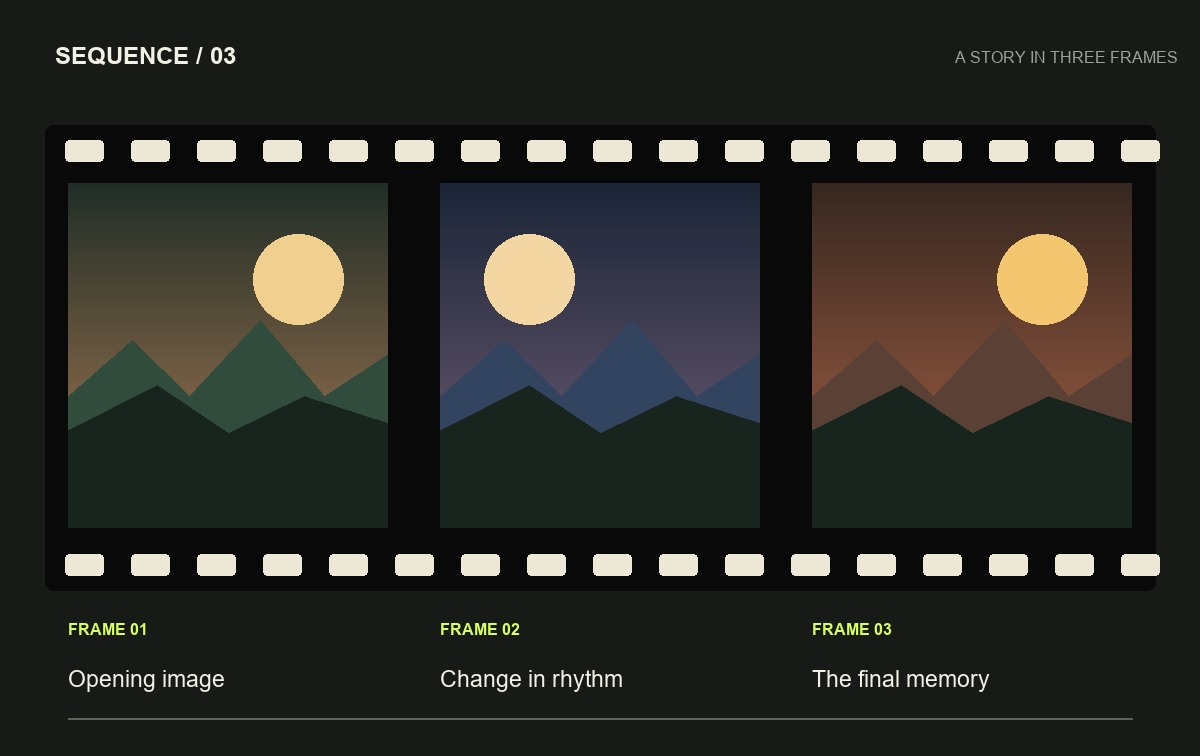
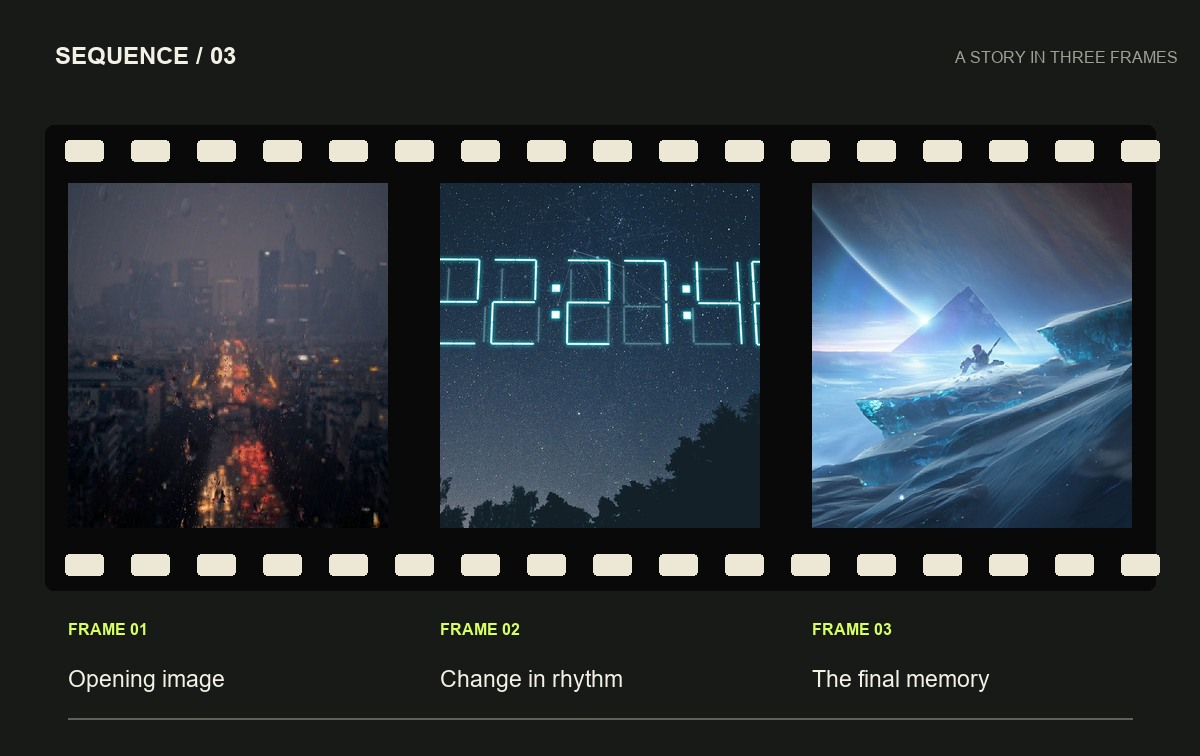
feat: use provided artwork in template previews

Changed region(s): [[0.0308, 0.2434, 0.6475, 0.6997], [0.6783, 0.2434, 0.9558, 0.6997]]

diff --git a/scripts/generate_preview_assets.py b/scripts/generate_preview_assets.py
@@ -21,29 +21,6 @@ def save(image: Image.Image, name: str) -> None:
     image.save(DEMO / name, "JPEG", quality=91, optimize=True, progressive=True)
 
 
-def generated_scene(size: tuple[int, int], variant: int) -> Image.Image:
-    palettes = [
-        ((33, 46, 40), (174, 126, 86), "#f1cf8f", "#314c3d"),
-        ((28, 37, 55), (116, 97, 122), "#f4d6a3", "#324460"),
-        ((54, 39, 32), (173, 101, 73), "#f3c66f", "#5b4035"),
-    ]
-    top, bottom, sun, land = palettes[variant % len(palettes)]
-    image = Image.new("RGB", size)
-    draw = ImageDraw.Draw(image)
-    for y in range(size[1]):
-        ratio = y / max(size[1] - 1, 1)
-        color = tuple(int(top[i] + (bottom[i] - top[i]) * ratio) for i in range(3))
-        draw.line((0, y, size[0], y), fill=color)
-    radius = min(size) // 7
-    cx = int(size[0] * (0.72 if variant % 2 == 0 else 0.28))
-    cy = int(size[1] * 0.28)
-    draw.ellipse((cx - radius, cy - radius, cx + radius, cy + radius), fill=sun)
-    horizon = int(size[1] * 0.62)
-    draw.polygon([(0, horizon), (size[0] * .2, horizon - size[1] * .16), (size[0] * .38, horizon), (size[0] * .6, horizon - size[1] * .22), (size[0] * .8, horizon), (size[0], horizon - size[1] * .12), (size[0], size[1]), (0, size[1])], fill=land)
-    draw.polygon([(0, horizon + size[1] * .1), (size[0] * .28, horizon - size[1] * .03), (size[0] * .5, horizon + size[1] * .11), (size[0] * .74, horizon), (size[0], horizon + size[1] * .08), (size[0], size[1]), (0, size[1])], fill="#18251f")
-    return image
-
-
 def avatar() -> None:
     canvas = Image.new("RGB", SIZE, "#111410")
     draw = ImageDraw.Draw(canvas)
@@ -92,7 +69,7 @@ def postcard() -> None:
 def magazine_cover() -> None:
     canvas = Image.new("RGB", SIZE, "#111410")
     cover = Image.new("RGB", (470, 664), "#f1efe7")
-    cover.paste(generated_scene((436, 530), 0), (17, 88))
+    cover.paste(fit("showcase-sources/editorial-portrait.jpg", (436, 530)), (17, 88))
     draw_cover = ImageDraw.Draw(cover)
     draw_cover.text((18, 8), "FORM", fill="#121512", font=font(64, True))
     draw_cover.text((366, 17), "ISSUE 07", fill="#121512", font=font(14, True))
@@ -100,7 +77,7 @@ def magazine_cover() -> None:
     draw_cover.text((34, 484), "THE IMAGE EDIT", fill="#151713", font=font(14, True))
     draw_cover.text((32, 520), "MAKE THE", fill="#151713", font=font(32, True))
     draw_cover.text((32, 558), "FRAME YOURS", fill="#151713", font=font(28, True))
-    canvas.paste(cover, (72, 45))
+    canvas.paste(cover, (155, 45))
     draw = ImageDraw.Draw(canvas)
     draw.text((655, 230), "EDITORIAL SYSTEM", fill="#d8ff62", font=font(21, True))
     draw.text((652, 278), "ONE IMAGE.", fill="#f4f4ee", font=font(52, True))
@@ -120,9 +97,9 @@ def scrapbook() -> None:
         draw.line((0, y, 1200, y), fill="#d9d0c1", width=1)
     draw.text((55, 38), "weekend notes", fill="#342f29", font=font(38, True))
     cards = [
-        (generated_scene((320, 310), 0), (80, 145), -5, "the first frame"),
-        (generated_scene((275, 250), 1), (445, 104), 4, "small discoveries"),
-        (generated_scene((260, 235), 2), (785, 335), -3, "keep this close"),
+        (fit("showcase-sources/memory-blossom.jpg", (320, 310)), (80, 145), -5, "the first frame"),
+        (fit("showcase-sources/memory-cave.jpg", (275, 250)), (445, 104), 4, "small discoveries"),
+        (fit("showcase-sources/story-rain.jpg", (260, 235)), (785, 335), -3, "keep this close"),
     ]
     for scene, position, angle, caption in cards:
         card = Image.new("RGB", (scene.width + 34, scene.height + 94), "#fffdf7")
@@ -149,8 +126,13 @@ def filmstrip() -> None:
         draw.rounded_rectangle((x, 140, x + 38, 161), radius=4, fill="#ede7d6")
         draw.rounded_rectangle((x, 554, x + 38, 575), radius=4, fill="#ede7d6")
     slots = [(68, 183), (440, 183), (812, 183)]
-    for index, point in enumerate(slots):
-        canvas.paste(generated_scene((320, 345), index), point)
+    scenes = [
+        fit("showcase-sources/story-rain.jpg", (320, 345)),
+        fit("showcase-sources/story-time.jpg", (320, 345)),
+        fit("showcase-sources/story-ice.jpg", (320, 345)),
+    ]
+    for index, (point, scene) in enumerate(zip(slots, scenes)):
+        canvas.paste(scene, point)
         draw.text((point[0], 620), f"FRAME 0{index + 1}", fill="#d8ff62", font=font(16, True))
     draw.text((68, 666), "Opening image", fill="#f3f0e6", font=font(23))
     draw.text((440, 666), "Change in rhythm", fill="#f3f0e6", font=font(23))

diff --git a/findings.md b/findings.md
@@ -37,3 +37,15 @@
 - 只复用上述公开页面体现的通用版式语言，不复制其模板文件、图片、代码、品牌或受限素材；仓库预览仍由本地脚本程序化生成。
 - 数据迁移通过 `data.sql` 启动时先删除旧三模板 ID，再 upsert 新模板，避免已有 MySQL 数据卷中同时残留 9 个模板。
 - 三图胶片故事板的集成验证结果包含 3 个独立 data URI；逐一解码后的 SHA-256 与本次上传的三份测试图片全部匹配，证明不是固定示例结果。
+
+## 用户授权展示素材（2026-11-03）
+- 用户明确改变此前限制，授权将其提供的图片用于新增模板的公开效果展示；该授权只影响模板预览，任务结果仍必须读取当次任务上传素材。
+- 杂志封面选择 `829413538/2.jpg`：主体明确、暖色背景和人物留白适合刊头与强调色块。
+- 复古剪贴簿选择 `1309327093` 樱花树、`1388331347` 洞穴树和 `1555286267` 雨夜城市：三张画面色彩与场景差异明显，适合拍立得拼贴。
+- 电影胶片故事板选择 `1555286267` 雨夜城市、`835186492` 星空时钟和 `2134276902` 冰原：可以形成“雨夜—时间—远方”的三帧视觉叙事。
+- 为保证脚本和容器环境可复现，应把选中的授权素材转为仓库内经过尺寸压缩的展示源文件，而不是在生成脚本中引用用户电脑绝对路径。
+- 重新合成后的杂志封面主体清晰且强调色块没有遮挡面部；剪贴簿三张照片层次和颜色差异足够；胶片故事板从暗色雨夜到数字时钟再到明亮冰原，连续性与三帧区分都明显。
+- 浏览器强制刷新后，首页精选区域和模板卡片均已加载新的授权素材版胶片故事板，证明静态资源没有被旧缓存覆盖；画面在现有暗色首页中对比度正常。
+- 模板卡片使用比轮播更高的裁切比例，初版杂志预览的左侧刊头 `FORM` 在卡片中被裁掉首字母；需要把整张封面向中心安全区移动，同时保留宽屏右侧说明。
+- 强制刷新后的第一帧会短暂显示模板加载占位状态（计数 `00`），视觉验收需要等待 Java 模板接口返回后再截图，不能把该瞬间误判为空数据故障。
+- 将杂志封面向中心移动后，详情预览中的 `FORM` 刊头、人物主体、强调色块和右侧标题全部完整可见，适配卡片裁切的同时没有破坏宽屏构图。

diff --git a/README.md b/README.md
@@ -14,7 +14,7 @@ docker compose up --build
 
 页面划分为两个业务入口：首页 `/` 用于自动轮播 6 个精选模板、分类筛选和提交制作；个人作品页 `/creations` 专门展示当前身份的任务状态、失败原因和成功结果。模板卡片和详情顶部展示的是“处理后效果示例”，帮助用户先判断版式效果；用户提交后仍会使用本次上传素材生成独立结果，不会直接返回示例图。右上角身份按钮打开个人中心侧栏，可切换身份、查看任务统计和最近制作，并进入完整作品历史。数据库初始化不会创建任何默认任务记录。
 
-模板预览只用于展示固定处理规则，不使用用户上传的测试素材。6 个预览均由 `scripts/generate_preview_assets.py` 离线合成为 JPG；其中编辑杂志封面、复古剪贴簿和电影胶片故事板使用脚本程序化绘制的通用场景，不依赖外部图片。运行网站不依赖该脚本、外部图片服务或付费素材源，生成后的静态文件已提交到仓库。用户提供的图片仅用于本地上传验收，不提交进模板素材目录。
+模板预览只用于展示固定处理规则。6 个预览均由 `scripts/generate_preview_assets.py` 离线合成为 JPG；编辑杂志封面、复古剪贴簿和电影胶片故事板使用项目委托方提供并明确授权用于本项目展示的图片，压缩后的展示源文件位于 `frontend/public/demo/showcase-sources/`。运行网站不依赖该脚本、外部图片服务或付费素材源，生成后的静态文件已提交到仓库。模板预览不会成为用户任务的固定结果，用户提交后仍由 Java 后端读取该任务上传的素材生成独立 SVG。
 
 新增模板的方向参考了 [Adobe Express 杂志封面模板](https://www.adobe.com/express/templates/cover/magazine)、[Canva 剪贴簿模板](https://www.canva.com/scrapbooks/templates/) 和 [Canva Film Strip 模板](https://www.canva.com/templates/s/film-strip/) 的公开分类与常见版式思路，只借鉴“编辑刊头与标题层级”“纸张/拍立得/胶带”“连续胶片分镜”等通用设计语言；没有复制第三方模板文件、代码、图片或品牌素材。
 

diff --git a/task_plan.md b/task_plan.md
@@ -17,17 +17,19 @@
 - [complete] 阶段 11：隔离 Next.js 开发与生产构建缓存
 - [complete] 阶段 12：分离模板示例与用户测试素材
 - [complete] 阶段 13：替换低质量模板为成熟固定版式
+- [complete] 阶段 14：使用用户授权素材升级新模板展示图
 
 ## 当前阶段
 全部阶段已完成
 
 ## Next Step
-提交并推送成熟版式模板替换。
+提交并推送用户授权素材版模板预览。
 
 ## 决策记录
 - 用户身份先采用演示用户 ID（请求头可切换），避免引入不在范围内的账号系统；README 明确演示方式。
 - 用户身份升级为浏览器本地持久化的创作者档案选择器；所有任务请求携带 `X-Demo-User`，切换身份时取消旧请求并重新加载个人记录。
 - 任务执行采用 Spring `ThreadPoolTaskExecutor` + 数据库状态持久化；重启恢复不承诺并在 README 说明。
+- 用户于 2026-11-03 明确授权将其提供的图片用于新增模板效果展示；任务结果仍必须使用每次任务上传的素材。
 
 ## 错误记录
 | 错误 | 尝试 | 处理 |
@@ -40,3 +42,4 @@
 | PowerShell `Invoke-RestMethod -Form` 将图片作为不符合模板的类型提交 | 1 | 改用 `curl -F` 显式声明 `image/jpeg`，任务受理并成功完成 |
 | `git push` 连接 GitHub 443 超时 | 1 | 本地 commit 已完成，检查代理与网络后重试推送 |
 | Next.js 开发服务缺少 `./138.js` 分块 | 1 | 确认由运行中的 `next dev` 与 `next build` 共用 `.next` 导致，改为开发环境使用 `.next-dev` |
+| PowerShell `foreach` 后直接连接管道触发空管道解析错误 | 1 | 改为先收集数组结果，再统一格式化输出 |

diff --git a/progress.md b/progress.md
@@ -38,3 +38,7 @@
 - 浏览器确认首页仅显示 6 个模板、分类与上传数量正确、自动轮播继续工作、杂志封面素材未就绪时提交按钮禁用，控制台无错误。
 - 使用三张用户测试图片提交电影胶片故事板，任务完成为 `SUCCEEDED/COMPLETED`；结果包含 3 个内嵌图片，字节哈希与三份源文件全部一致。验收任务、上传副本和结果文件随后已清理。
 - 验证通过：后端 `mvn clean test package`，前端 typecheck、lint、Vitest 和 production build；本地 3000/8080/3307 服务保持可用。
+- 用户明确授权将此前提供的图片用于新增模板展示；已筛选 6 张素材并复制到 `frontend/public/demo/showcase-sources/`，避免生成脚本依赖用户电脑绝对路径。
+- 更新预览生成脚本：杂志封面使用人物图，剪贴簿使用樱花树/洞穴树/雨夜城市，胶片故事板使用雨夜/时钟/冰原；三张预览已重新生成并完成视觉检查。
+- 前端 typecheck、lint、Vitest 和 production build 已通过；浏览器刷新后确认首页已显示新的授权素材版胶片故事板。
+- 根据真实卡片裁切修正杂志封面安全区；详情弹窗最终确认刊头、主体、标题和上传位完整显示。
